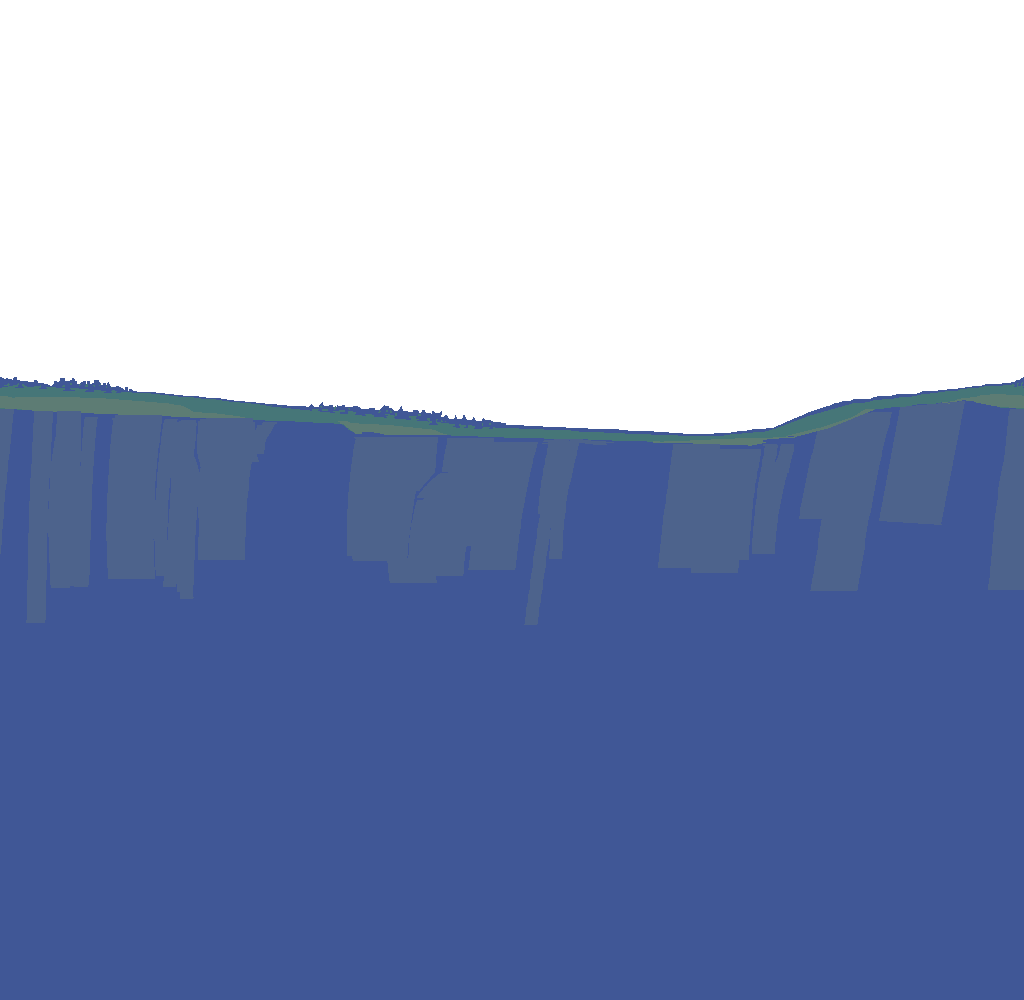
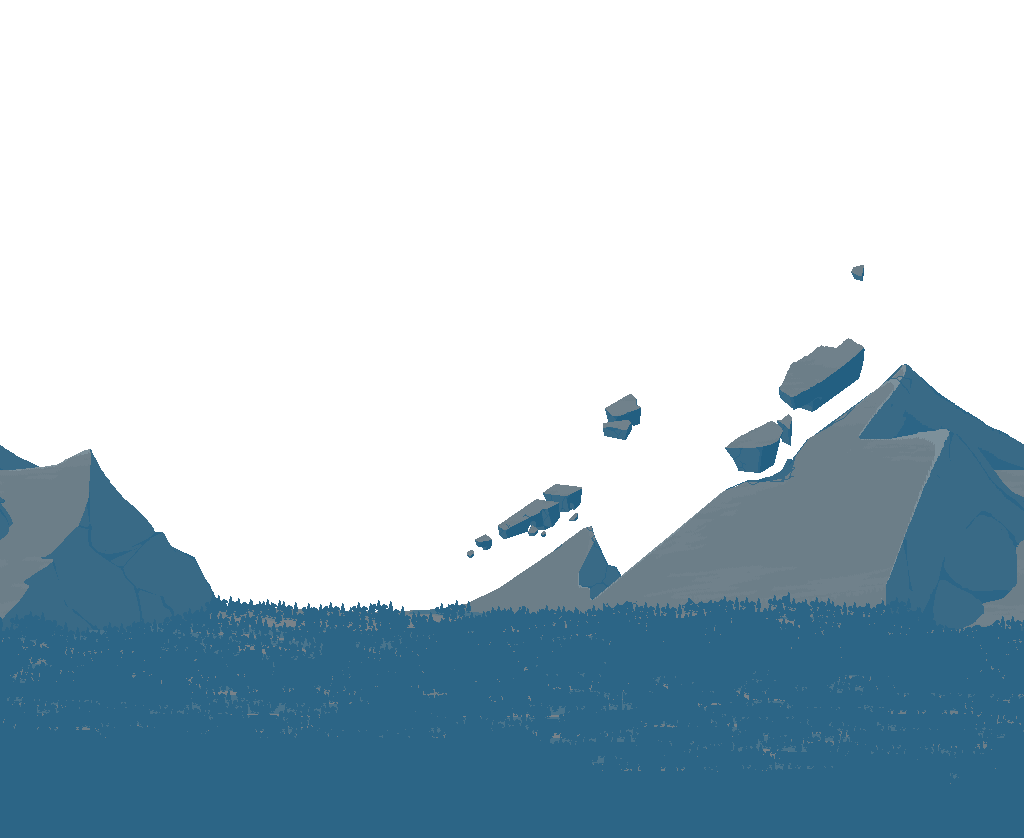
add improved bg + animation

diff --git a/Content/Scenes/RavencrestSurfaceBackground.cs b/Content/Scenes/RavencrestSurfaceBackground.cs
@@ -4,6 +4,8 @@ namespace PathOfTerraria.Content.Scenes;
 
 internal class RavencrestSurfaceBackground : ModSurfaceBackgroundStyle, IBackgroundModifier
 {
+	private static int SurfaceFrame = 0;
+
 	public override int ChooseFarTexture()
 	{
 		return BackgroundTextureLoader.GetBackgroundSlot(Mod, "Assets/Backgrounds/RavencrestFar");
@@ -16,8 +18,12 @@ internal class RavencrestSurfaceBackground : ModSurfaceBackgroundStyle, IBackgro
 
 	public override int ChooseCloseTexture(ref float scale, ref double parallax, ref float a, ref float b)
 	{
+		SurfaceFrame++;
+
 		b -= 1550;
-		return BackgroundTextureLoader.GetBackgroundSlot(Mod, "Assets/Backgrounds/RavencrestFront");
+		int frame = SurfaceFrame / 12 % 8;
+
+		return BackgroundTextureLoader.GetBackgroundSlot(Mod, "Assets/Backgrounds/RavencrestClose" + frame);
 	}
 
 	public override void ModifyFarFades(float[] fades, float transitionSpeed)
